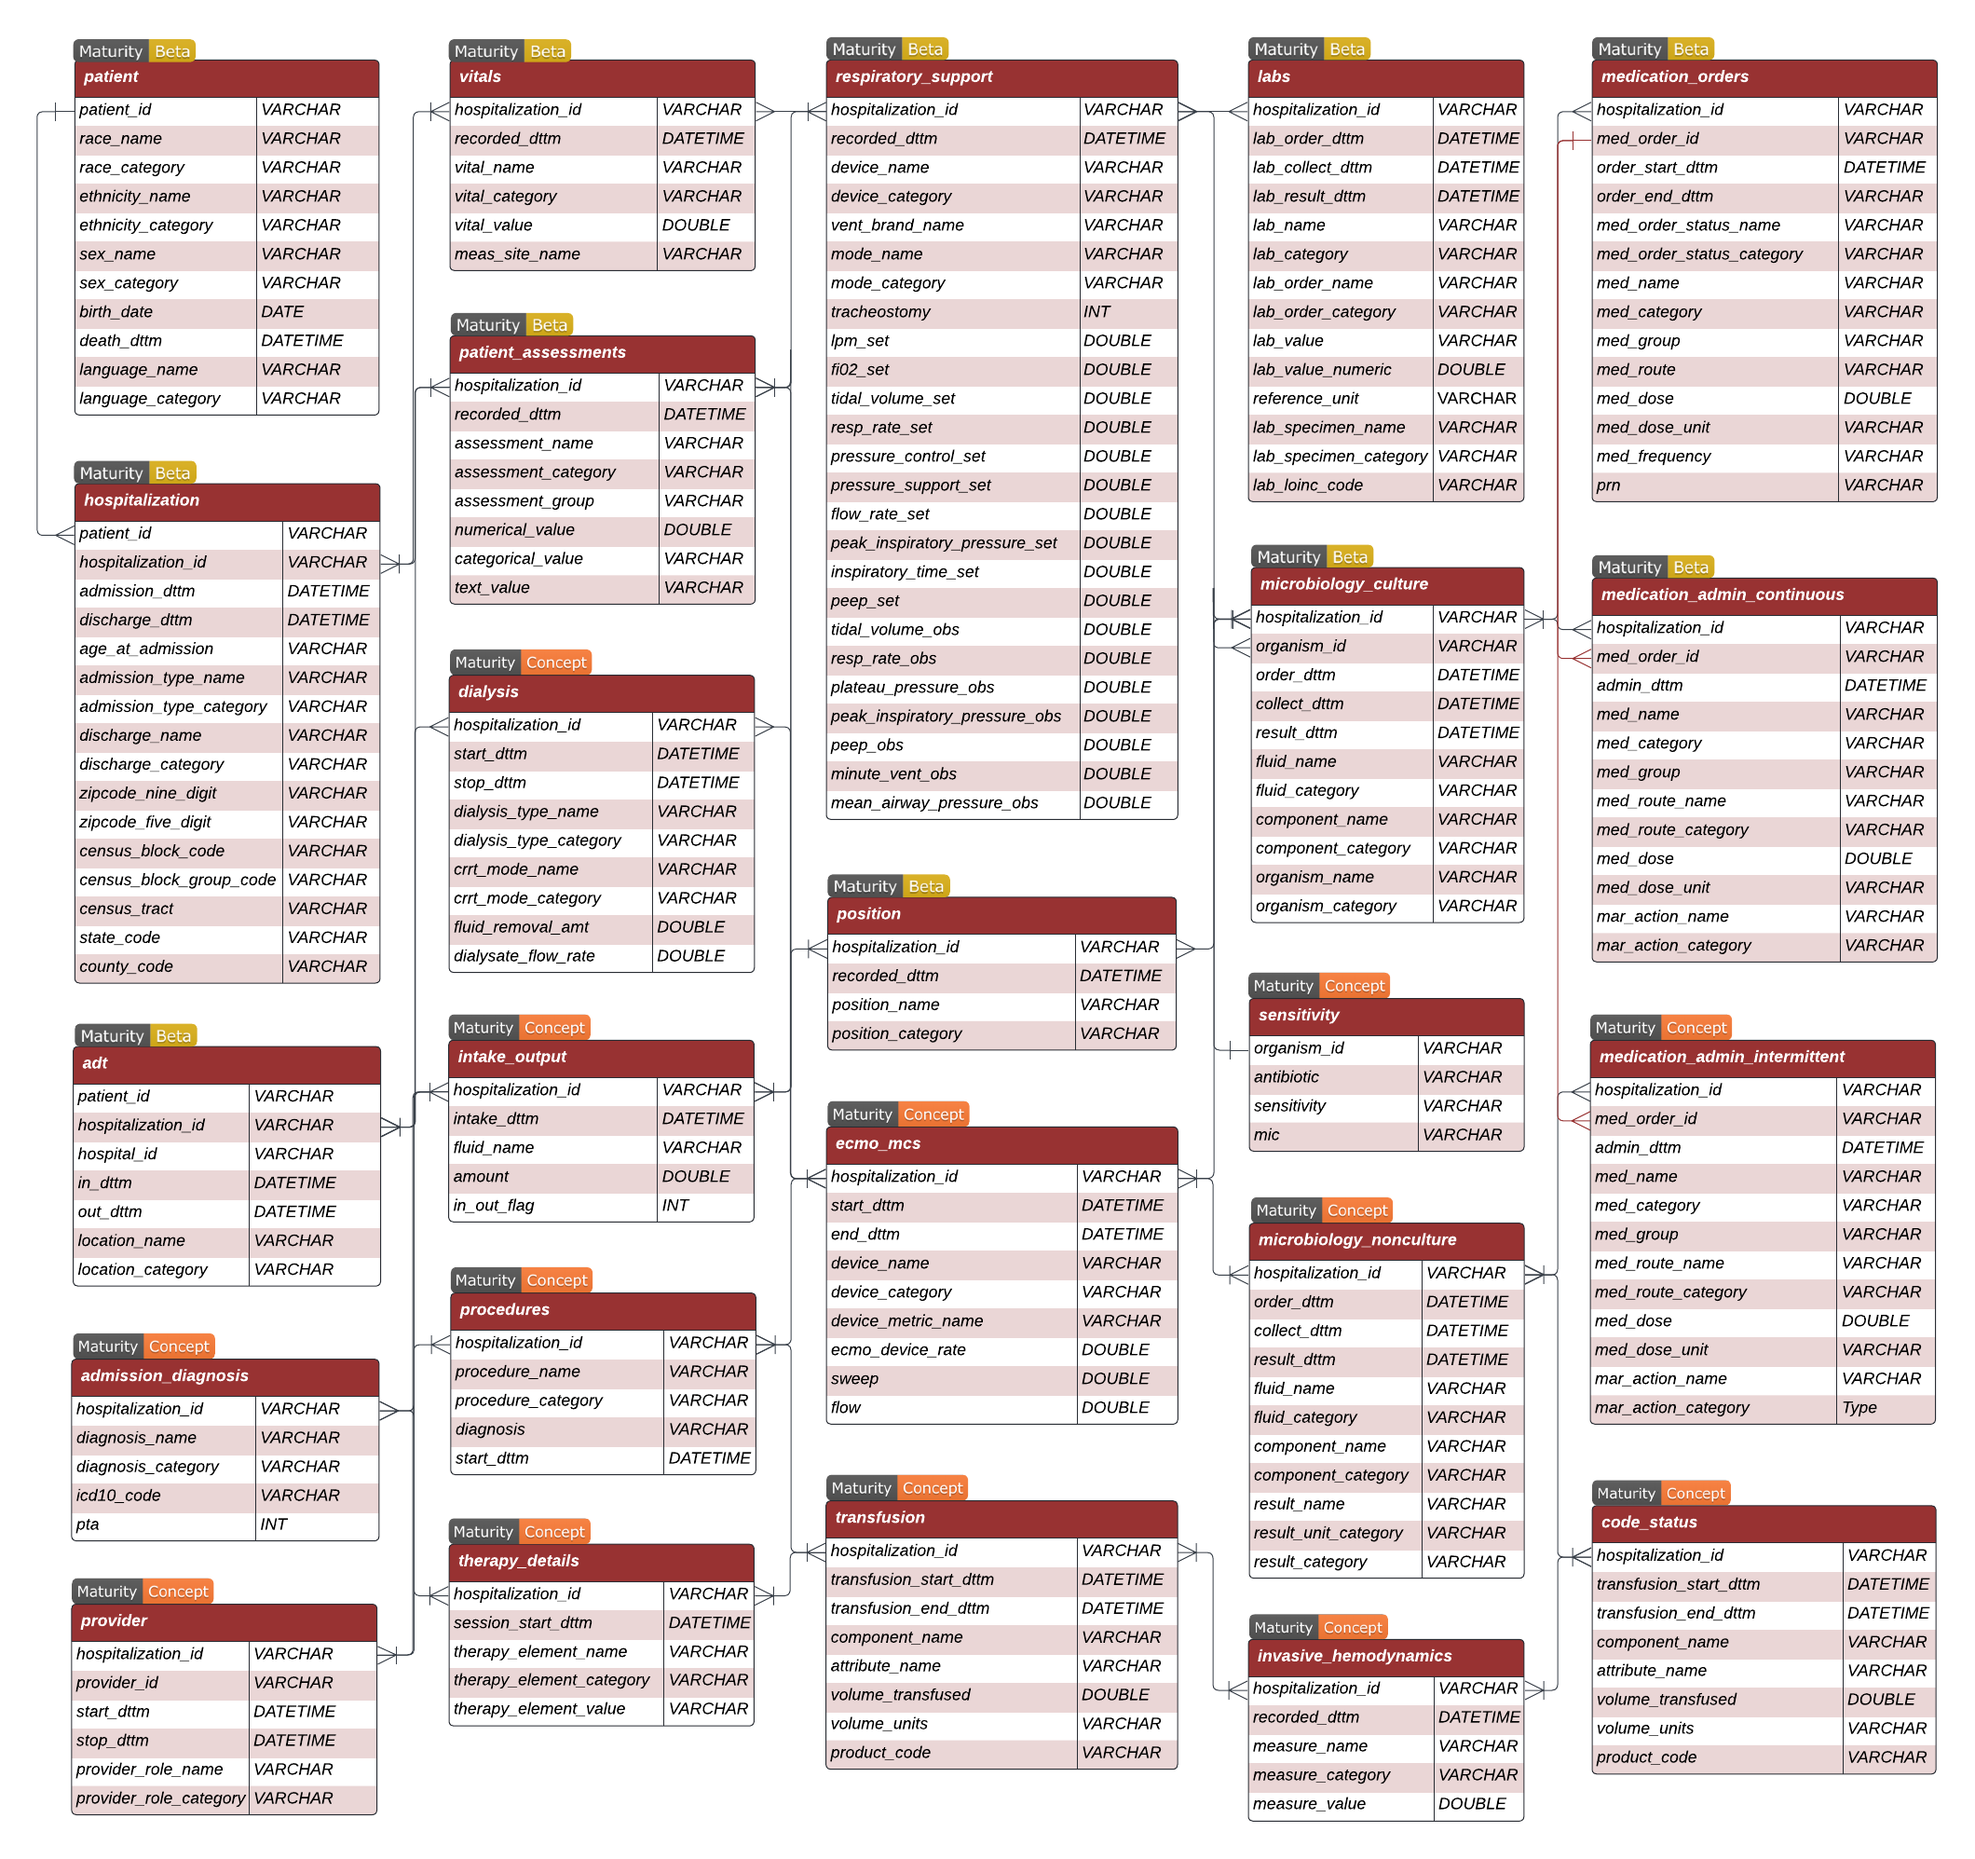
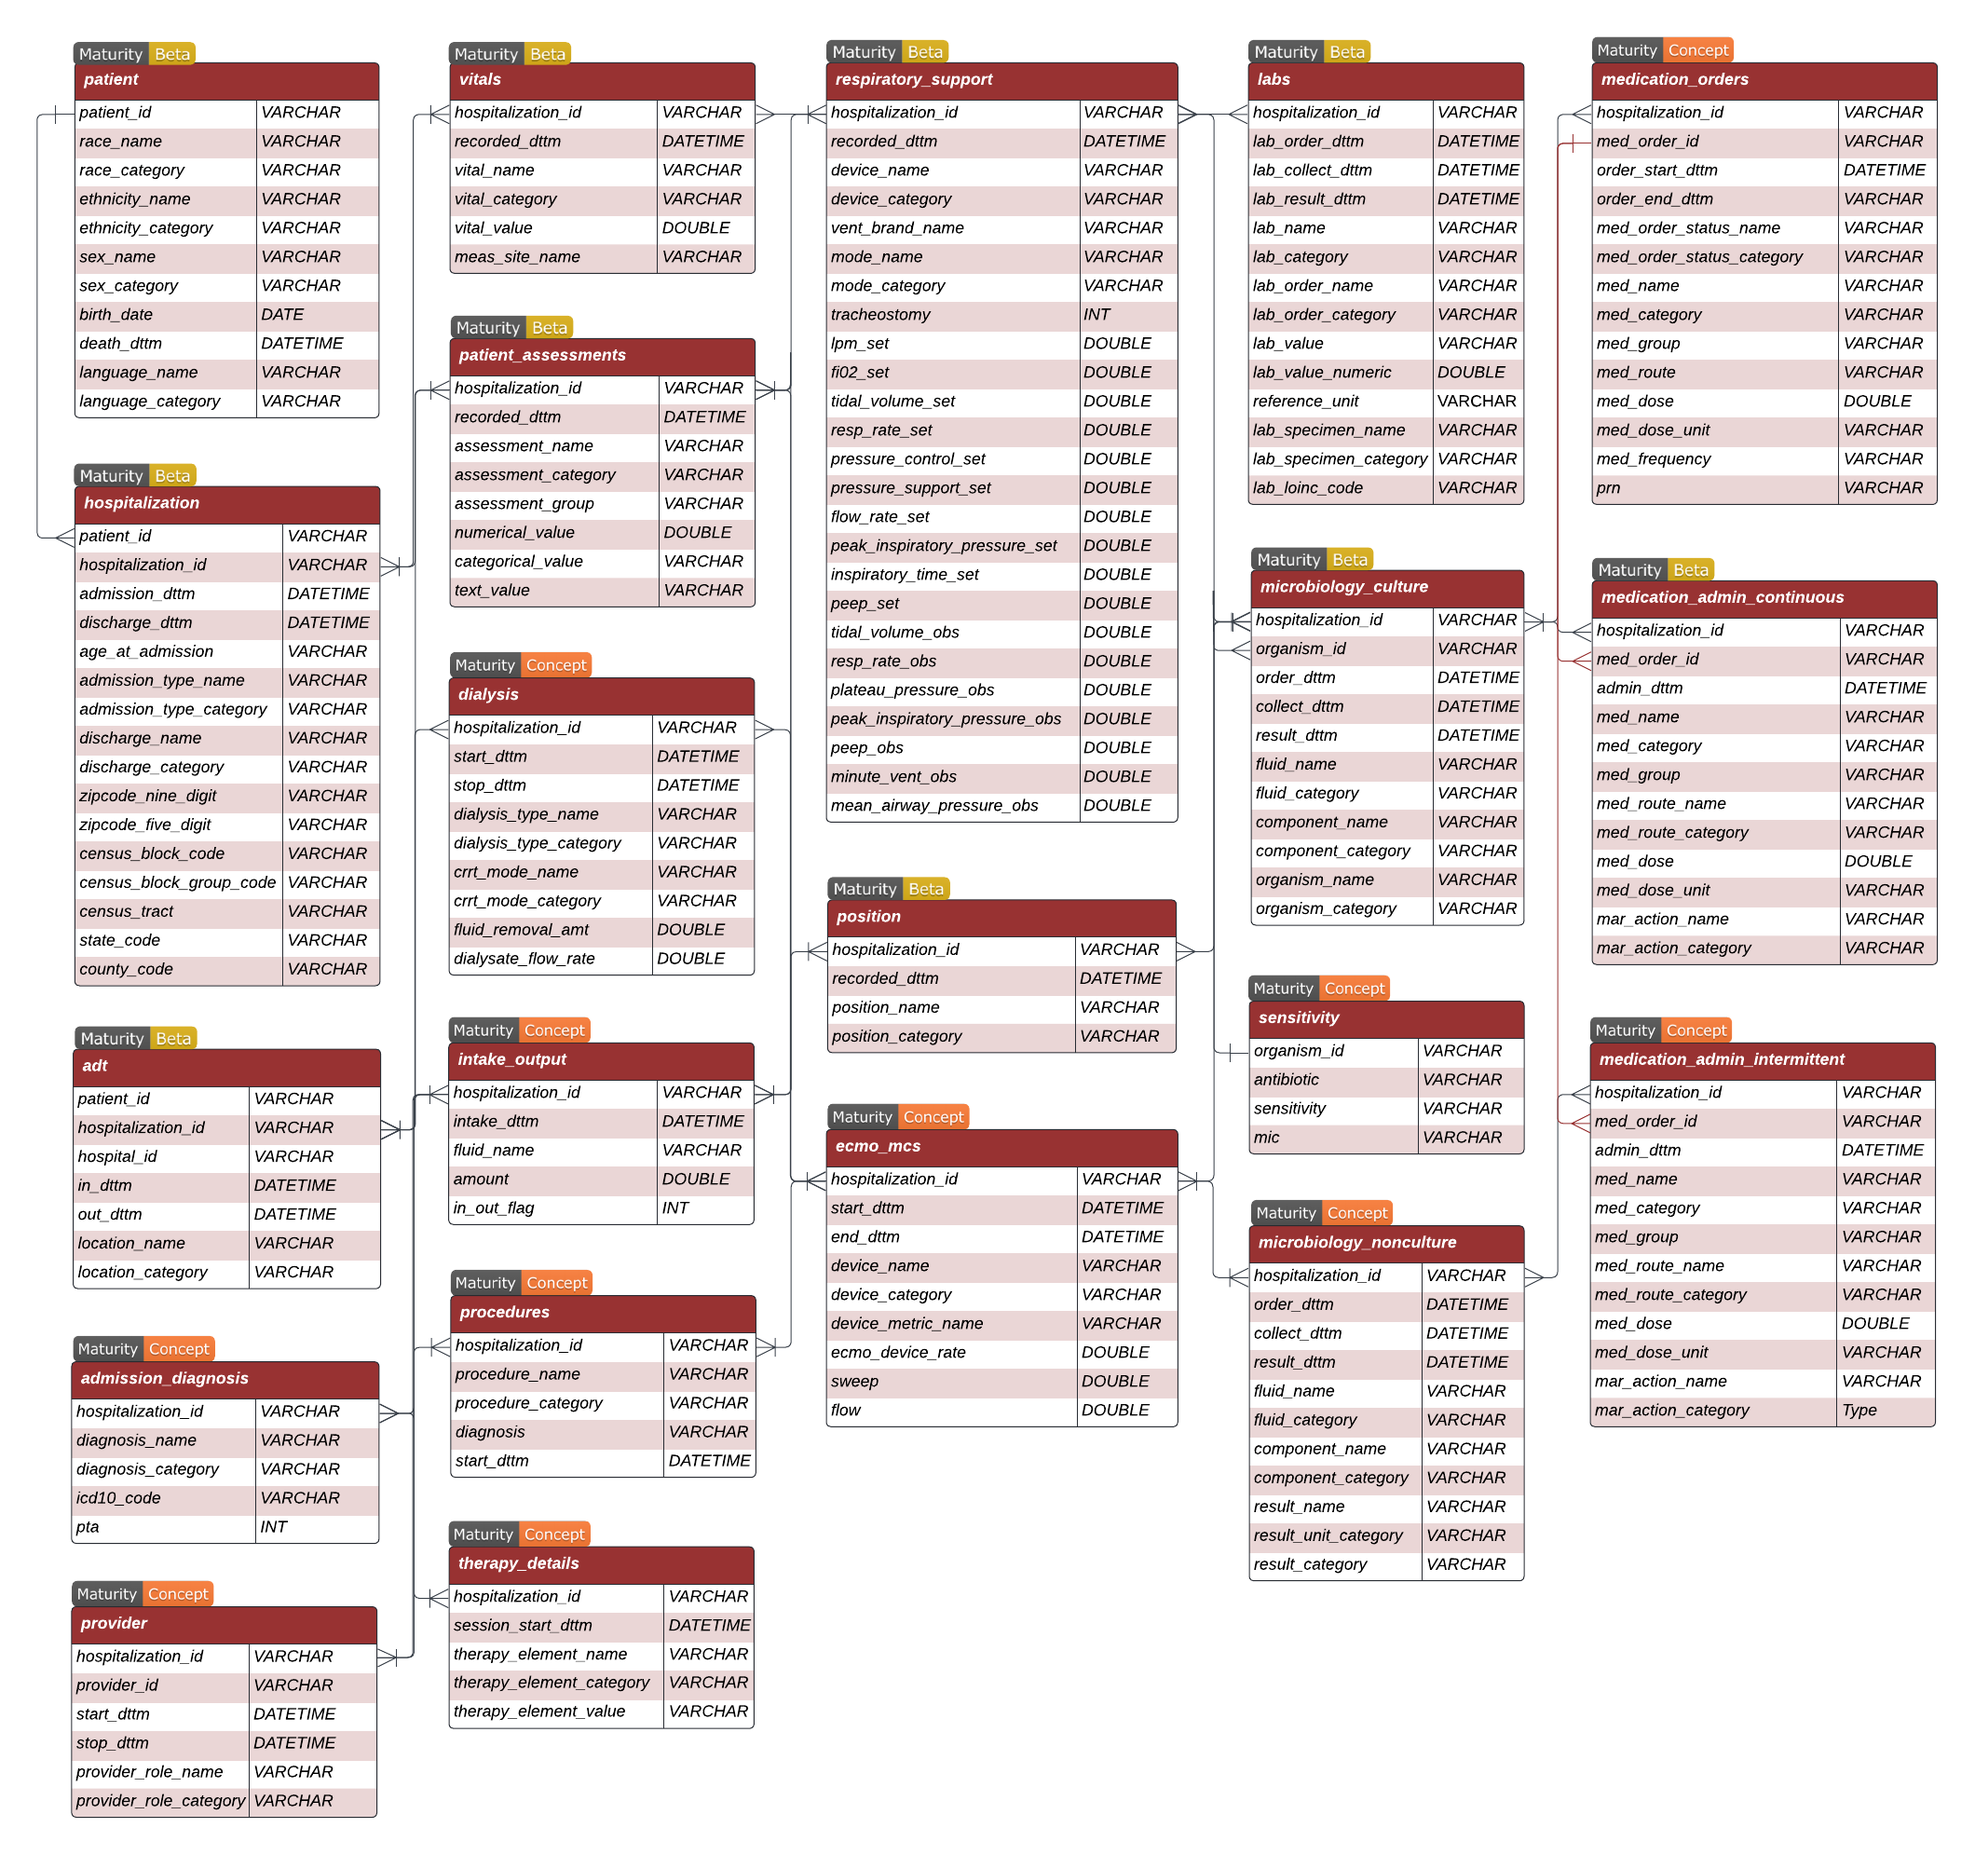
Updated maturity description for concept and beta. Updated ERD to make med orders as concept

Changed region(s): [[0.0311, 0.0, 0.9962, 0.9965]]

diff --git a/docs/data-dictionary.html b/docs/data-dictionary.html
@@ -264,8 +264,8 @@ ul.task-list li input[type="checkbox"] {
 <h2 class="anchored" data-anchor-id="maturity-levels-for-clif-tables">Maturity Levels for CLIF Tables</h2>
 <p>There are two critical maturity elements for each CLIF table: 1) field structure and 2) Common ICU data Element development. Each CLIF table has one or more consortium physician-data scientists who are responsible for table design.</p>
 <ul>
-<li><img src="https://img.shields.io/badge/Maturity-Concept-orange.png" class="img-fluid" alt="Concept"> <strong>Concept</strong>: Placeholder for future CLIF table. Majority of table structure and CDE elements incomplete. Expect breaking changes.</li>
-<li><img src="https://img.shields.io/badge/Maturity-Beta-yellow.png" class="img-fluid" alt="Beta"> <strong>Beta</strong>: Table structure and field names complete, but not fully tested. CDE for category variables underdevelopment. Actively seeking feedback.</li>
+<li><img src="https://img.shields.io/badge/Maturity-Concept-orange.png" class="img-fluid" alt="Concept"> <strong>Concept</strong>: A planned future CLIF table that has yet to be used in a federated project. The table structure and CDE elements are in draft form. Permissible values of category variables may still need to be defined. Seeking conceptual feedback. Significant changes to all aspects of the table are possible.</li>
+<li><img src="https://img.shields.io/badge/Maturity-Beta-yellow.png" class="img-fluid" alt="Beta"> <strong>Beta</strong>: Table purpose, structure, and field names complete and used in at least one federated CLIF project. CDE for category variables defined. Actively testing the table’s practical use in projects.</li>
 <li><img src="https://img.shields.io/badge/Maturity-Stable-brightgreen.png" class="img-fluid" alt="Stable"> <strong>Stable</strong>: Tested and recommended for general use. CDE stable with permissible values for all category variables precisely defined and locked. Fully implemented at multiple consortium sites and used in a peer-reviewed publication.</li>
 <li><img src="https://img.shields.io/badge/Maturity-Mature-blue.png" class="img-fluid" alt="Mature"> <strong>Mature</strong>: Adopted across a majority of the CLIF consortium sites and very stable.</li>
 <li><img src="https://img.shields.io/badge/Maturity-Deprecated-lightgrey.png" class="img-fluid" alt="Deprecated"> <strong>Deprecated</strong>: No longer maintained.</li>
